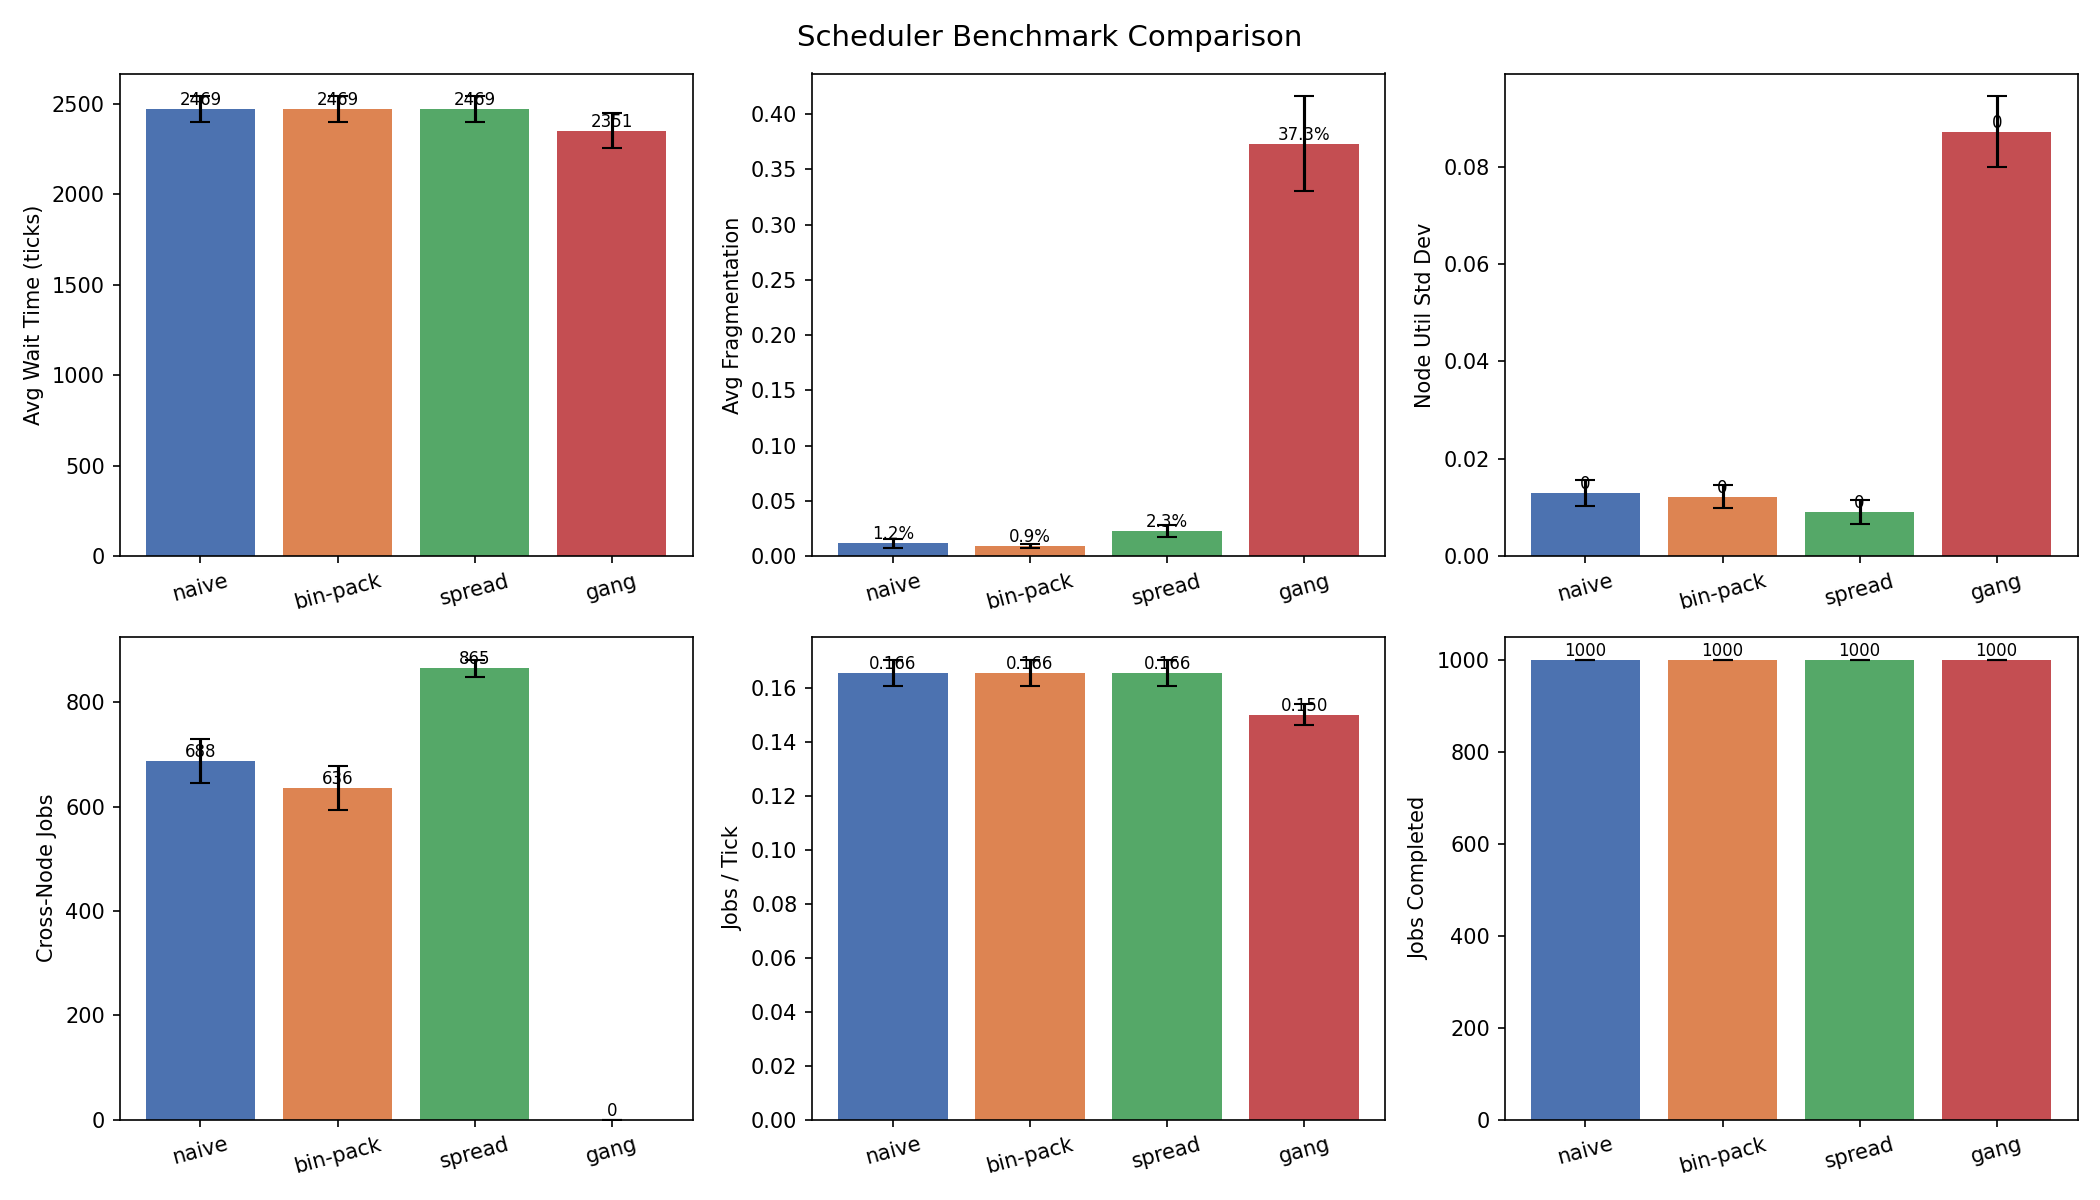
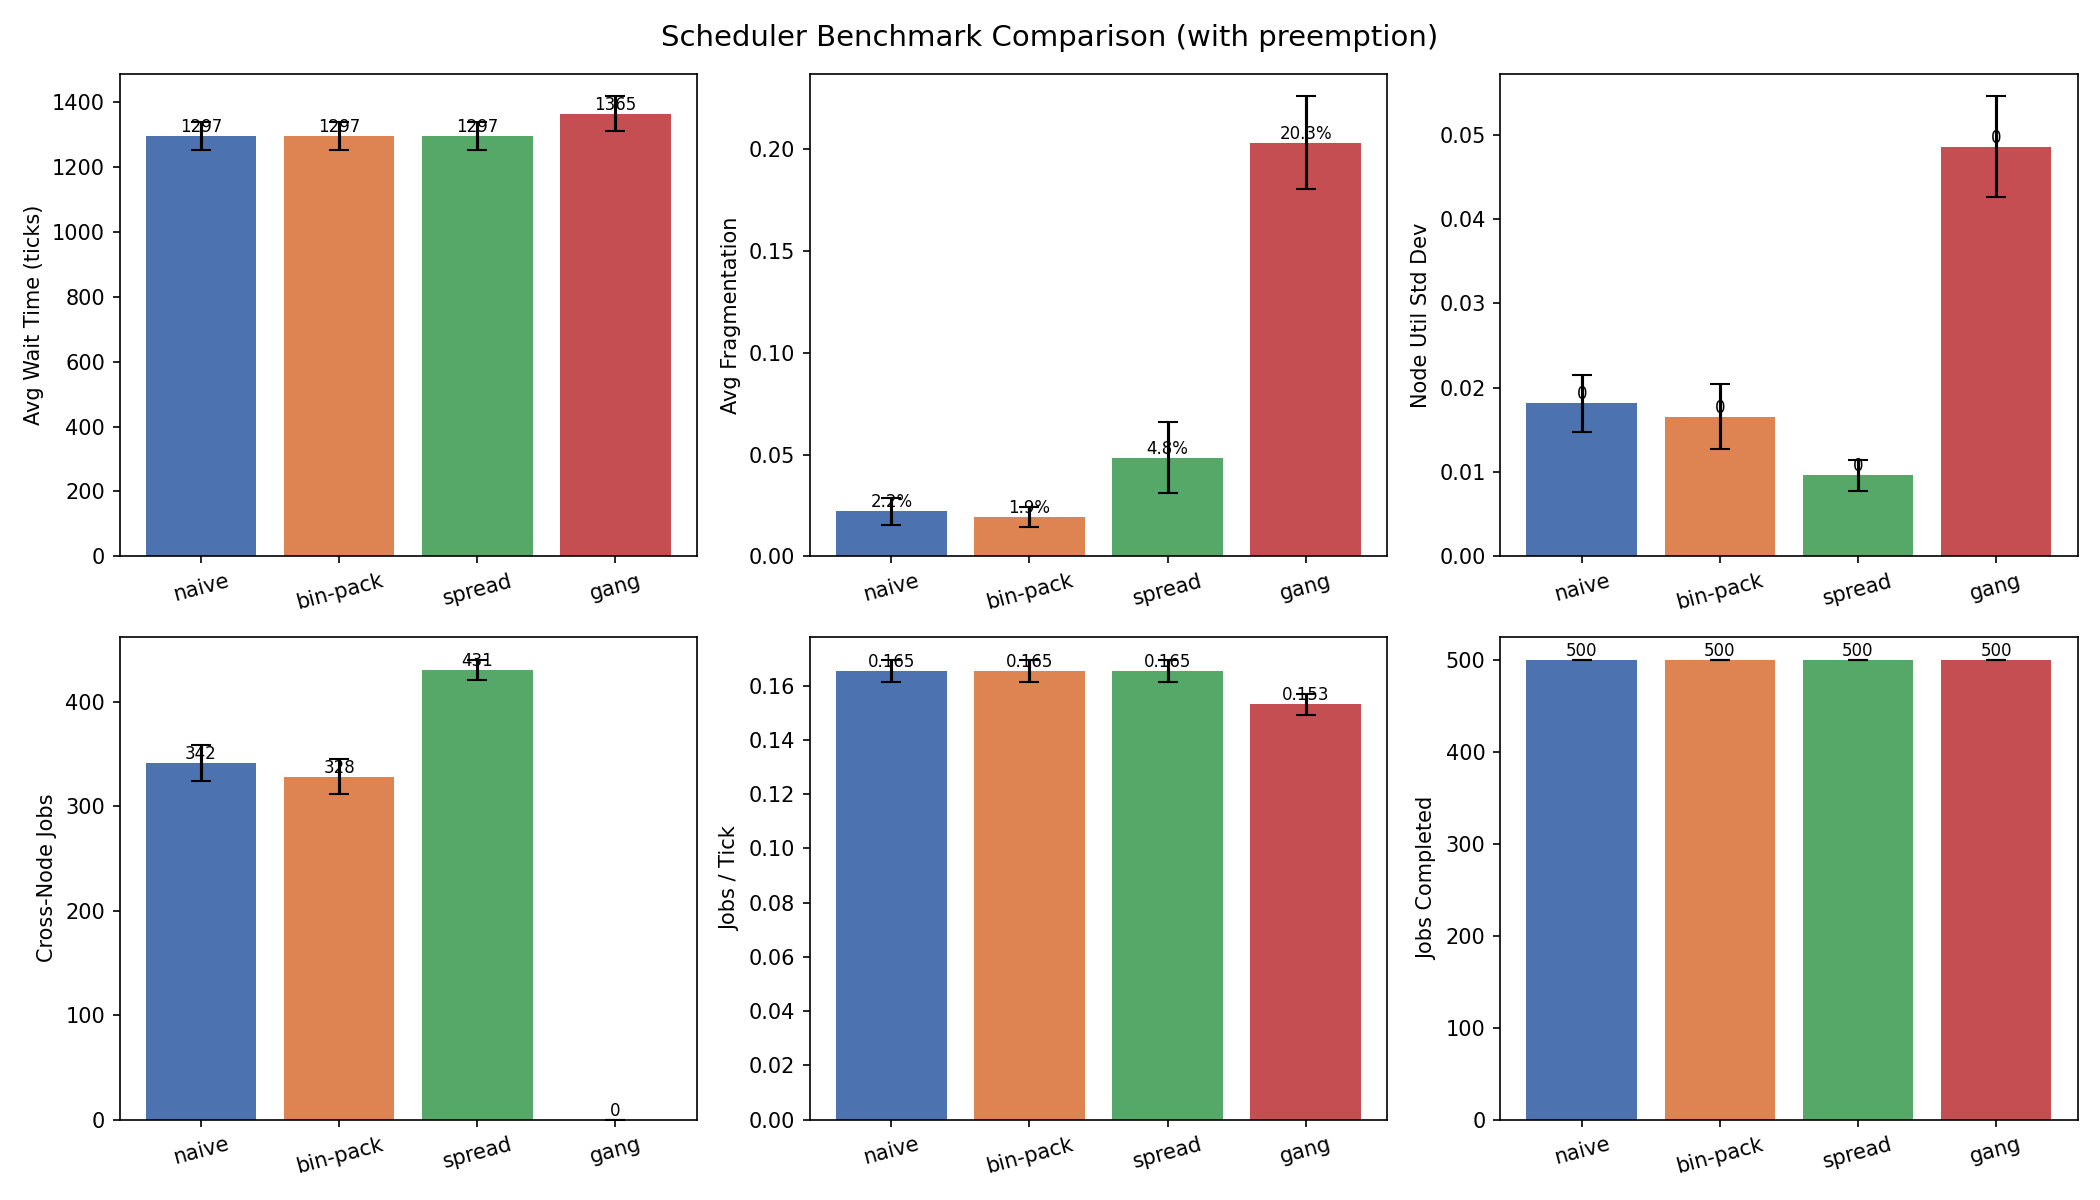
update readme file

diff --git a/README.md b/README.md
@@ -58,7 +58,7 @@ Does the opposite: puts jobs on the emptiest nodes first. When a job needs multi
 
 #### `gang.py` — Gang Scheduler
 
-Requires all GPUs for a job to be on the **same node** and **contiguous** (next to each other). This is how some real GPU schedulers work (like SLURM's gang scheduling). It avoids cross-node communication overhead but can reject jobs that would fit if spread across nodes.
+Requires all GPUs for a job to be on the **same node** and **contiguous** (next to each other). This models a stricter placement constraint some production schedulers use, requiring co-located, contiguous GPUs to minimize inter-GPU communication overhead for distributed training jobs. It can reject jobs that would fit if spread across nodes.
 
 ### `simulate.py` — Command-line entry point
 
@@ -118,12 +118,42 @@ The core simulation requires **no external packages**. Just Python 3.10+. For ch
 pip install matplotlib
 ```
 
+## Results
+
+Benchmarked 1000 jobs across 10 random seeds on a 5-node, 8-GPU-per-node cluster (40 GPUs total). All numbers are mean ± 1 standard deviation. Results are consistent at both 500 and 1000 jobs; the 1000-job run is shown for tighter variance.
+
+![Benchmark comparison chart](benchmark_comparison.png)
+
+| Metric | Naive | BinPack | Spread | Gang |
+|--------|-------|---------|--------|------|
+| Avg wait time (ticks) | 2469.4 ± 70.2 | 2469.4 ± 70.2 | 2469.4 ± 70.2 | 2350.8 ± 95.1 |
+| Avg fragmentation | 1.17% ± 0.42% | 0.93% ± 0.18% | 2.27% ± 0.54% | 37.31% ± 4.29% |
+| Node util std dev | 0.013 ± 0.003 | 0.012 ± 0.002 | 0.009 ± 0.002 | 0.087 ± 0.007 |
+| Cross-node jobs | 688 ± 42 | 636 ± 42 | 865 ± 17 | 0 ± 0 |
+| Jobs / tick | 0.1657 ± 0.0049 | 0.1657 ± 0.0049 | 0.1657 ± 0.0049 | 0.1502 ± 0.0039 |
+| Jobs completed | 1000 ± 0 | 1000 ± 0 | 1000 ± 0 | 1000 ± 0 |
+
+**BinPack** produces the lowest fragmentation (0.93%) by packing jobs onto the fullest nodes first, and minimizes cross-node splitting (636 vs 688 for Naive). **Spread** creates the most cross-node jobs (865) by placing one GPU per node in round-robin, which raises fragmentation (2.27%) but gives the best load balance (node utilization std dev of 0.009 vs 0.013). **Gang** avoids cross-node placements entirely (0 cross-node jobs) but pays for it with high fragmentation (~37%) and slightly lower throughput (0.1502 vs 0.1657 jobs/tick). Wait times and completion counts are nearly identical across Naive, BinPack, and Spread since none of them refuse placements — when the cluster has enough capacity, any cross-node strategy works equally well for these metrics.
+
+**Preemption** (500 jobs, 10 seeds, same cluster) was benchmarked separately. Its effects are most visible on Gang: fragmentation drops from 39.40% to 20.33% because high-priority jobs can carve out contiguous space by displacing lower-priority work. Naive, BinPack, and Spread see minimal change — their cross-node flexibility already handles contention without preemption. Wait times increase slightly across all schedulers (e.g., Naive from 1176.9 to 1297.2 ticks) since preempted jobs are re-queued and eventually complete, extending their total time in the system.
+
+## Methodology and Limitations
+
+- **Relative comparison, not production numbers.** These results compare algorithms against each other under identical simulated conditions. They are not benchmarks of real-world scheduler performance.
+- **Cluster sizing matters.** With small clusters (e.g., 3 nodes x 4 GPUs) where job GPU requirements approach node capacity, scheduler choice has little effect on placement quality — large jobs are forced cross-node regardless of strategy. Meaningful comparison requires node capacity large enough that most jobs can fit on a single node.
+- **What the simulation does not model:** real hardware failures, heterogeneous GPU types (e.g., A100 vs H100), network cost between nodes, multi-tenant fairness policies, real driver or scheduler overhead, or energy consumption.
+- **Statistical validity.** All comparisons are aggregated across 10 random seeds with reported variance, not single runs. Results are reproducible using the fixed-seed `JobGenerator`.
+
 ## How to reproduce results
 
 ### One-shot simulation
 
 ```bash
 # Default: naive scheduler, 500 jobs, 3 nodes x 4 GPUs
+# Note: the small default cluster (3 nodes x 4 GPUs) is useful for quick
+# sanity checks but is too tight relative to job sizes to show meaningful
+# differences between scheduling strategies. Use --nodes 5 --gpus-per-node 8
+# (the benchmark default) for representative comparisons.
 python simulate.py
 
 # Try different schedulers
@@ -131,7 +161,7 @@ python simulate.py --scheduler bin-pack
 python simulate.py --scheduler spread
 python simulate.py --scheduler gang
 
-# Adjust cluster size and workload
+# Representative cluster size
 python simulate.py --scheduler gang --nodes 5 --gpus-per-node 8 --jobs 1000
 
 # Enable preemption
@@ -166,4 +196,4 @@ python benchmark.py --no-charts
 python test_scheduler.py
 ```
 
-All 24 tests should pass with output like `24/24 passed`.
+All 24 tests should pass with output like `24/24 passed`. Tests cover: cluster allocation and deallocation logic, fragmentation and utilization calculations, correctness of each scheduler's placement decisions on hand-constructed cases, and gang scheduling's contiguous-block requirement.